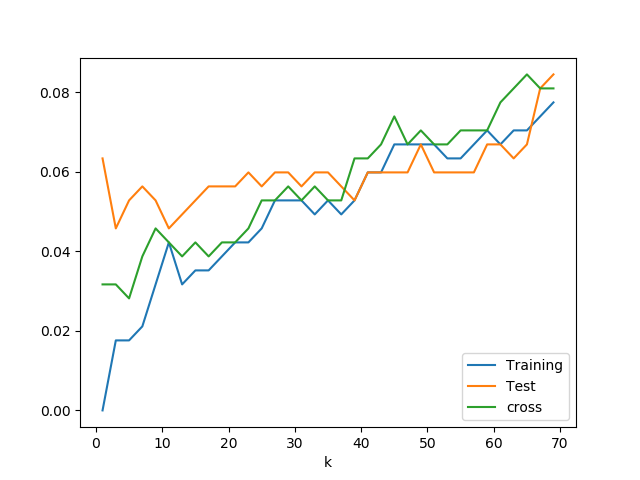
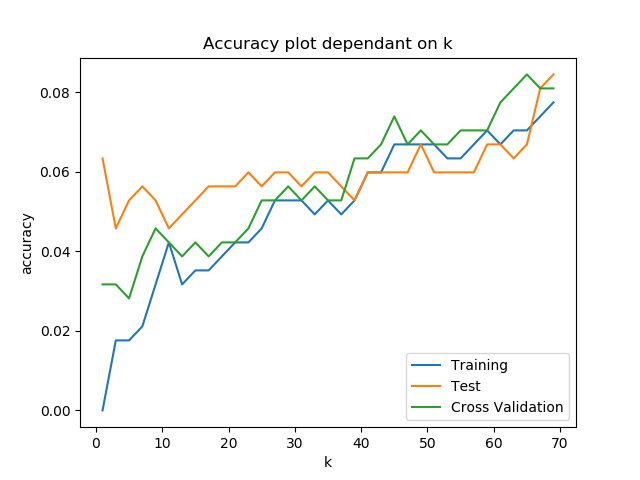
add readme

diff --git a/assignment_2/src/problem_1/plot_knn.py b/assignment_2/src/problem_1/plot_knn.py
@@ -6,8 +6,10 @@ S = np.loadtxt(open("knn_results.csv", "rb"), delimiter=',').astype('float')
 fig, ax = plt.subplots()
 ax.plot(S[:,0], S[:,1], label="Training")
 ax.plot(S[:,0], S[:,2], label="Test")
-ax.plot(S[:,0], S[:,3], label="cross")
+ax.plot(S[:,0], S[:,3], label="Cross Validation")
 ax.legend(loc="lower right")
+ax.set_title("Accuracy plot dependant on k")
+ax.set_ylabel("accuracy")
 ax.set_xlabel('k')
 
 fig.savefig("knn_results.png")

diff --git a/assignment_2/src/problem_1/README.md b/assignment_2/src/problem_1/README.md
@@ -1,0 +1,12 @@
+KNN Classification
+==================
+
+Requirements
+------------
+
+Ensure you are using Python 3, and have Numpy installed.
+
+Run
+---
+
+`python3 knn.py`
